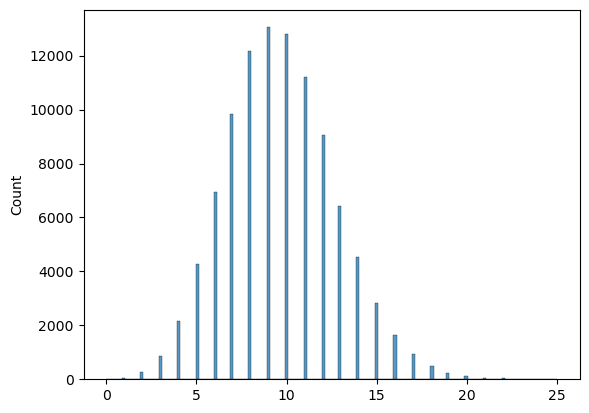
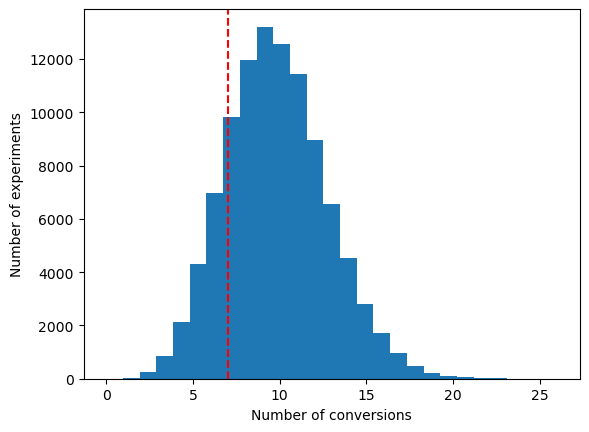
monte carlo

diff --git a/_posts/2024-05-23-monte-carlo.md b/_posts/2024-05-23-monte-carlo.md
@@ -1,0 +1,79 @@
+Предположим, мы продаем трафик на продукт, который платит $8 за какое-то действие пользователя. Нам выгодно слать на этот продукт, только если конечный EPC (earning per click) будет больше либо равен $0.33. Спустя какое-то время после запуска мы видим следующие результаты:
+
+| Clicks | Conversions |   Revenue |   CTR |   EPC |
+|-------:|------------:|----------:|------:|------:|
+|    235 |           7 |    $56.00 | 2.98% | $0.24 |
+
+Внимание, вопрос: стоит ли нам продолжать трафик на этот продукт?
+
+Опытные, вероятно, заметили, что данных на самом деле не очень много, и, вероятно, надо еще подождать. А сколько подождать? Если ждать мало, то потенциально мы можем упустить хороший источник трафика. Если ждать долго, то мы можем потерять лишние деньги.
+
+Давайте считать. В статистике существует такой важный термин, как **статистическая значимость**. Она позволяет нам понять не просто больше ли одно значение, чем другое, а еще и насколько мы можем быть в этом уверены.
+
+Предположим, что на самом деле реальный EPC у нашего продукта не $0.24, а $0.33 либо даже больше, а то, что мы видим меньшие цифры — это просто случайность, такая же как и длинные серии из орлов и решек. Давайте посчитаем вероятность того, что при EPC равном $0.33, мы случайным образом  получили бы именно такие результаты, какие мы видим или даже хуже.
+
+Поскольку мы тут программисты, а не математики, давайте вместо формул просто напишем симуляцию эксперимента, в котором 235 кликов будут генерировать конверсии таким образом, чтобы получился нужный нам EPC в $0.33. Мы проведем эксперимент очень много раз, а потом посчитаем, в каком количестве экспериментов мы получили результаты хуже либо такие же, как в постановке задачи. Это и будет наша вероятность (этот метод, кстати, называется метод Монте-Карло).
+
+Для простоты я перейду от EPC к CTR. Для того чтобы у нас был EPC в $0.33, нам нужно, чтобы CTR был равен 4.12%:
+
+```python
+import numpy as np
+
+clicks = 235
+conversions = 7
+hypothesized_rate = 0.0412
+num_simulations = 100000
+
+simulated_conversions = np.random.binomial(
+    clicks,
+    hypothesized_rate,
+    num_simulations,
+)
+```
+
+Теперь посмотрим на распределение количества конверсий в наших симуляциях:
+```python
+import matplotlib.pyplot as plt
+
+plt.hist(simulated_conversions, bins=27)
+plt.axvline(x=conversions, color='red', linestyle='--')
+plt.xlabel('Number of conversions')
+plt.ylabel('Number of experiments')
+plt.show()
+```
+
+![](/assets/monte-carlo-1.png)
+
+Мы видим, что количество конверсий, равное 7 (как в изначальных данных) либо меньше, выпадает достаточно часто. А если быть точнее, в 24.48% случаев:
+
+```python
+np.mean(simulated_conversions <= conversions)
+```
+
+То есть, другими словами, при реальном EPC в $0.33, если мы будем предполагать, основываясь на имеющихся данных, что EPC у нашего продукта все-таки $0.24, мы будем ошибаться в 24.48% случаев. Много ли это? Это много, это значит, что каждую пятую кампанию вы будете тратить деньги неэффективно. У аналитиков, как правило, принято ошибаться не чаще чем в 5% случаев.
+
+Хорошо, а сколько данных нам нужно, чтобы ошибаться в 5%?
+
+Мы можем проделать все то же самое для разного количества кликов и посмотреть, в какой момент ошибка опустится до приемлемого уровня.
+
+```python
+x = []
+y = []
+
+observed_ctr = 0.0298
+for clicks in range(10, 2000, 10):
+    conversions = int(np.round(clicks * observed_ctr))
+    x.append(clicks)
+    y.append(simulate(clicks, conversions))
+
+plt.plot(x, y)
+plt.axhline(y=0.05, color='r', linestyle='--')
+plt.xlabel('Number of clicks')
+plt.ylabel('Probability of error')
+plt.show()
+```
+![](/assets/monte-carlo-2.png)
+
+На графике видно, что при примерно 830 кликах вероятность получить наблюдаемые данные (EPC $0.24), при условии, что в реальности EPC равен $0.33, будет уже примерно 5%. И если вы все-таки получите в результате EPC $0.24, тогда уже можно с высокой достоверностью (а именно 95%) утверждать, что кампанию стоит остановить.
+
+#аналитика
